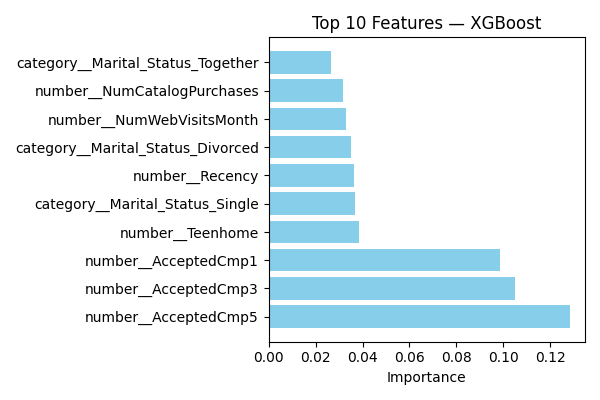
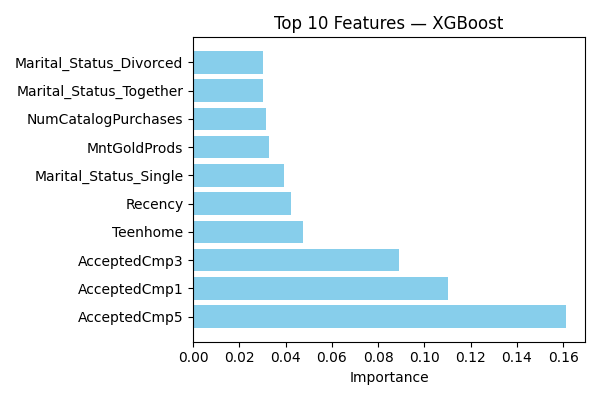
Update the preprocess method

diff --git a/src/tuning.py b/src/tuning.py
@@ -16,20 +16,20 @@ def _param_grids() -> Dict[str, Dict[str, list[Any]]]:
     grids: Dict[str, Dict[str, list[Any]]] = {
         "Decision Tree": {
             "estimator__max_depth": [None, 2, 3, 4, 5],
-            "estimator__min_samples_split": [2, 3, 4],
+            "estimator__min_samples_split": [2, 3, 4, 5],
         },
        "Random Forest": {
-            "estimator__n_estimators": [ 435, 436, 437, 438, 440],
-            "estimator__max_depth": [None, 2, 3, 4],
+            "estimator__n_estimators": [ 422, 423, 424, 425, 426, 430],
+            "estimator__max_depth": [None, 2, 3, 4, 5],
         },
         "AdaBoost": {
-            "estimator__n_estimators": [ 444, 445, 446, 450],
-            "estimator__learning_rate": [ 0.1, 0.5, 0.6, 0.7, 0.8],
+            "estimator__n_estimators": [419, 420, 421, 438, 442],
+            "estimator__learning_rate": [ 0.2, 0.3, 0.4, 0.5, 0.6, 0.7],
         },
          "XGBoost": {
-            "estimator__n_estimators": [169, 170, 171, 172],
-            "estimator__max_depth": [2, 3, 4, 5],
-            "estimator__learning_rate": [ 0.09, 0.1, 0.11],
+            "estimator__n_estimators": [160, 165, 167, 168, 169],
+            "estimator__max_depth": [2, 3, 4, 5, 6],
+            "estimator__learning_rate": [0.07, 0.08, 0.09, 0.1, 0.2],
         }
     }
     return grids

diff --git a/src/preprocess.py b/src/preprocess.py
@@ -16,9 +16,16 @@ def load_data(path: str) -> pd.DataFrame:
 def make_preprocessor(df: pd.DataFrame, target_col: str) -> Tuple[Pipeline, pd.DataFrame, pd.Series]:
     """Return a preprocessing pipeline plus feature matrix X and target vector y."""
 
-    # split X and y
-    y = df[target_col] # target vector
-    X = df.drop(columns=[target_col]) # feature matrix
+    # split X and y, and exclude any customer identifier column from X
+    y = df[target_col]  # target vector
+
+    # Determine columns to exclude
+    exclude_cols = [target_col]
+    for col in ("ID",):
+        if col in df.columns:
+            exclude_cols.append(col)
+
+    X = df.drop(columns=exclude_cols)  # feature matrix without ID columns
 
     # Detect column types
     num_cols = X.select_dtypes(include=["int64", "float64"]).columns.tolist()
@@ -48,7 +55,8 @@ def make_preprocessor(df: pd.DataFrame, target_col: str) -> Tuple[Pipeline, pd.D
         transformers=[
             ("number", numeric_pipe, num_cols),
             ("category", categorical_pipe, cat_cols),
-        ]
+        ],
+        verbose_feature_names_out=False  
     )
 
     return preprocessor, X, y

diff --git a/README.md b/README.md
@@ -51,12 +51,12 @@ The dataset contains information from the pilot marketing campaign.
 
 ### Feature Description
 
+-   **`Response` (Target)**: 1 if customer accepted the offer in the last campaign, 0 otherwise
 -   **`AcceptedCmp1`**: 1 if customer accepted the offer in the 1st campaign, 0 otherwise
 -   **`AcceptedCmp2`**: 1 if customer accepted the offer in the 2nd campaign, 0 otherwise
 -   **`AcceptedCmp3`**: 1 if customer accepted the offer in the 3rd campaign, 0 otherwise
 -   **`AcceptedCmp4`**: 1 if customer accepted the offer in the 4th campaign, 0 otherwise
 -   **`AcceptedCmp5`**: 1 if customer accepted the offer in the 5th campaign, 0 otherwise
--   **`Response` (Target)**: 1 if customer accepted the offer in the last campaign, 0 otherwise
 -   **`Complain`**: 1 if customer complained in the last 2 years
 -   **`DtCustomer`**: Date of customer’s enrolment with the company
 -   **`Education`**: Customer’s level of education
